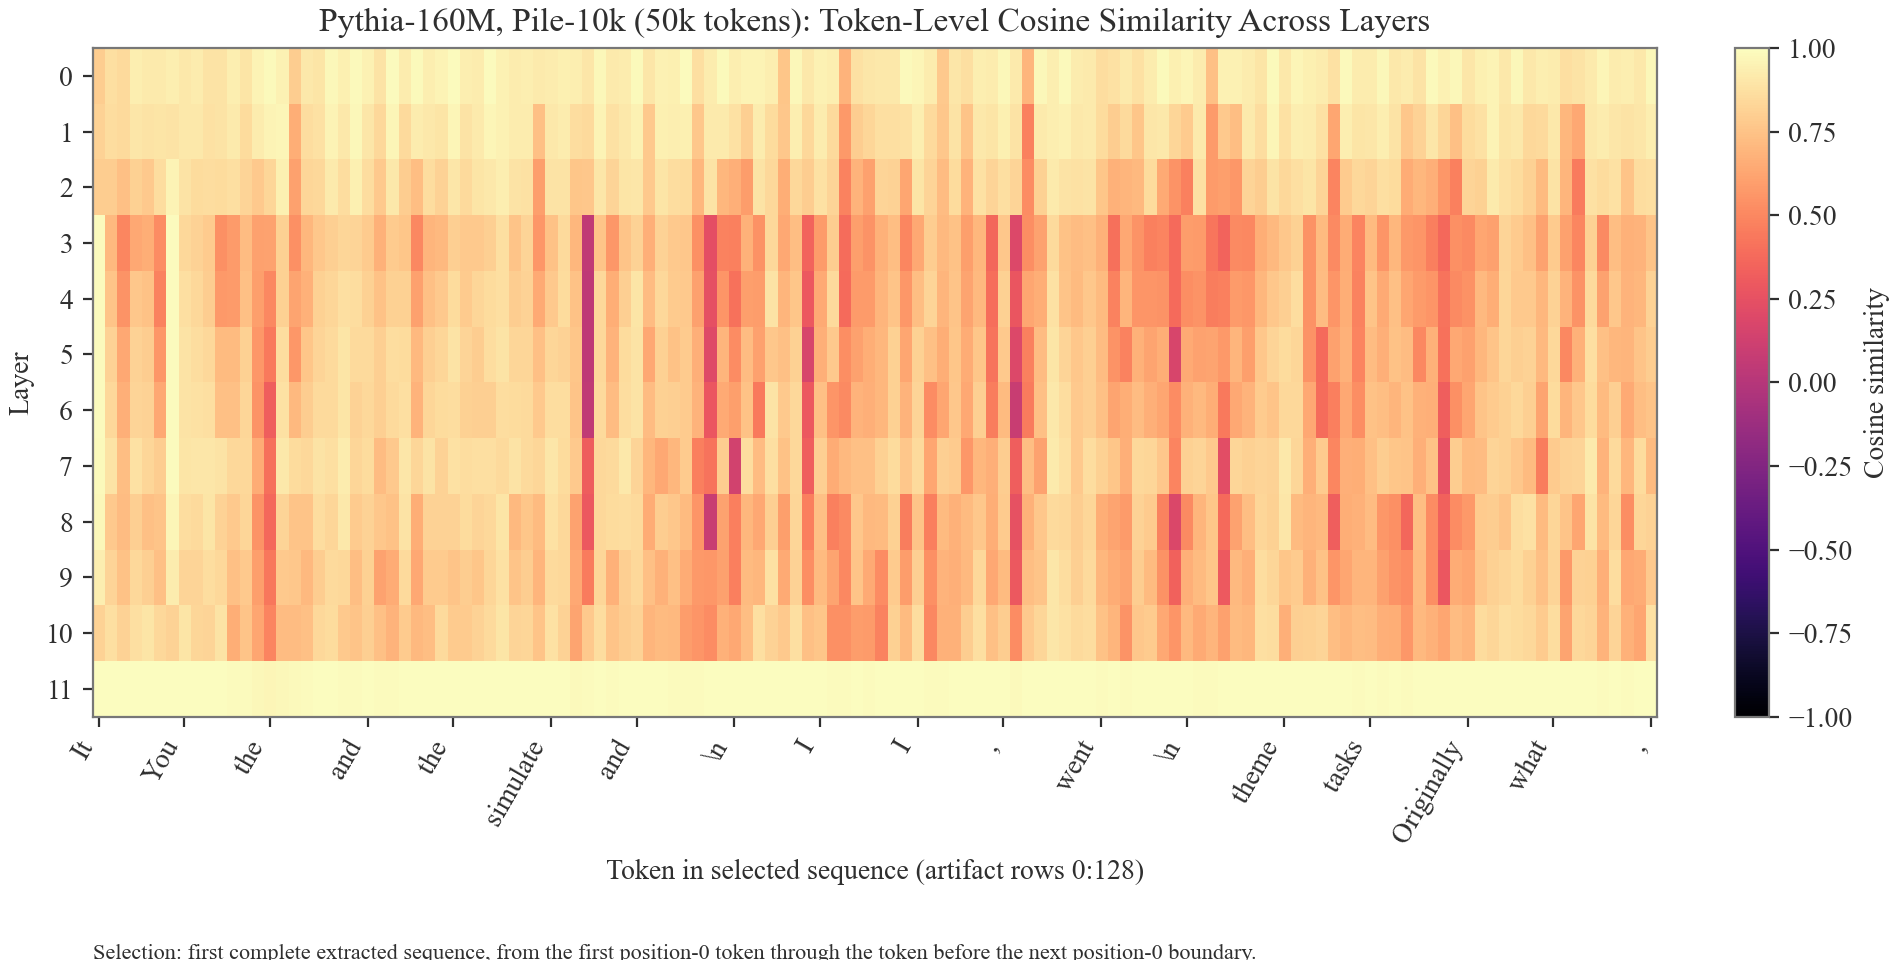
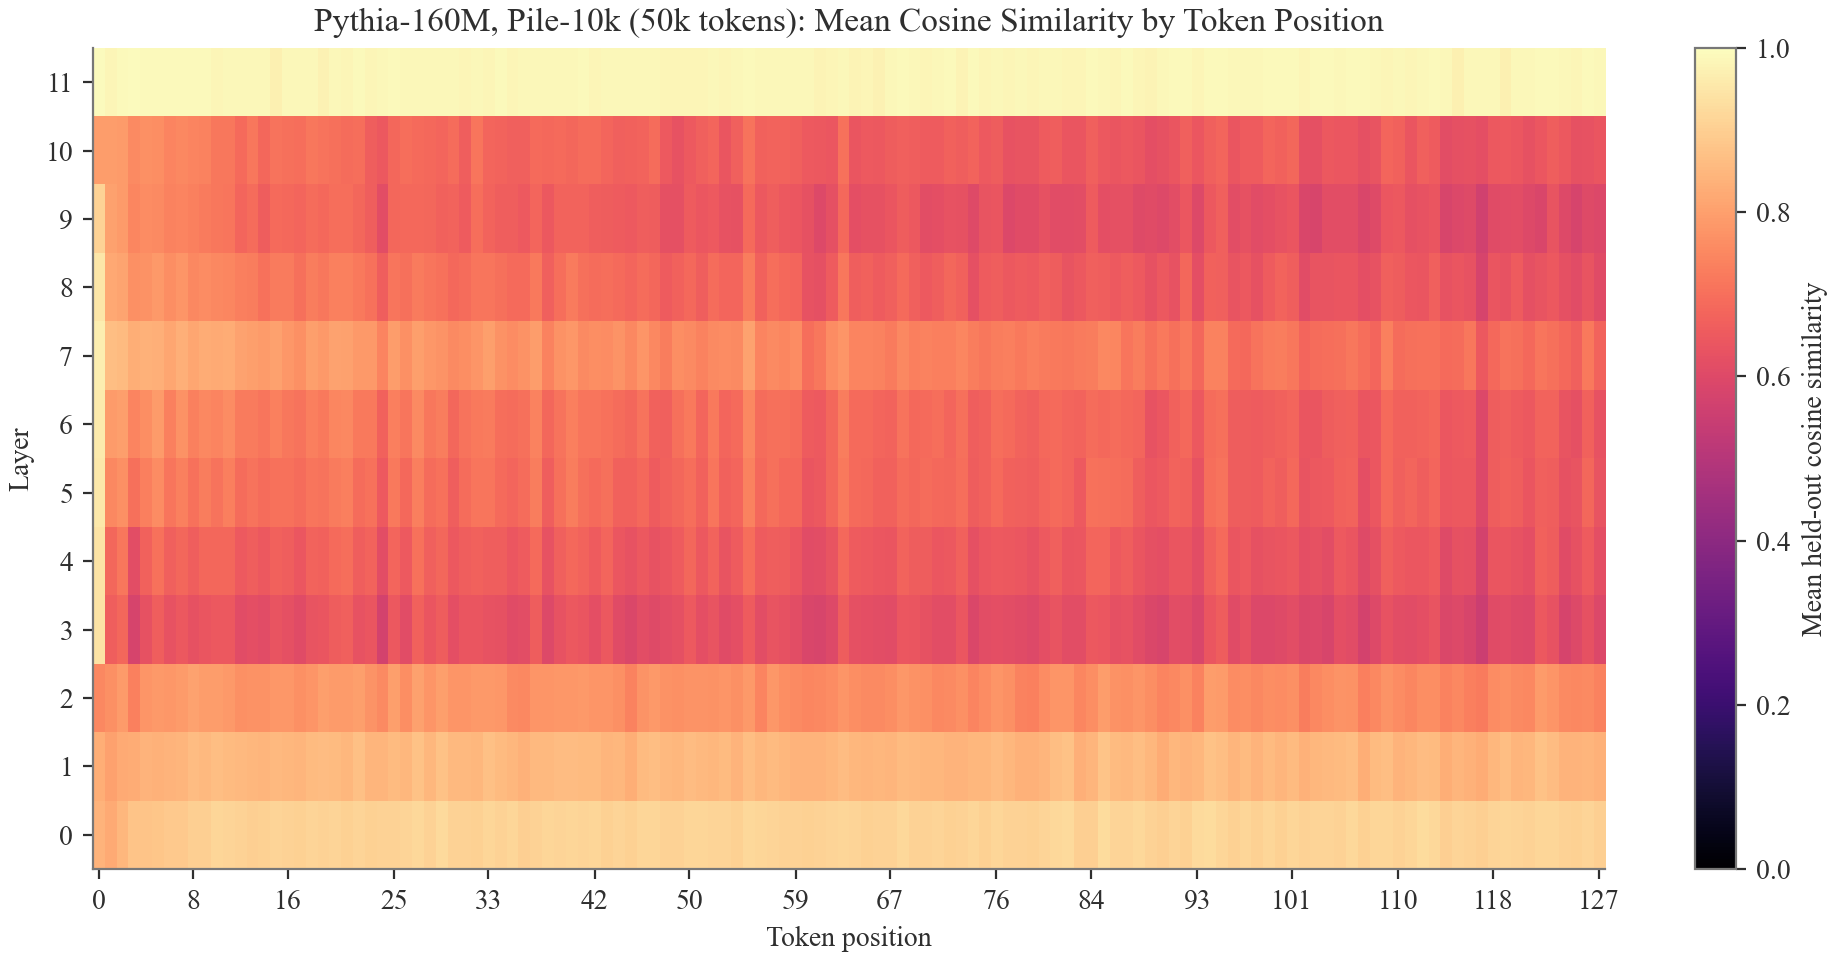
more plots

diff --git a/src/token_vs_context_llms/plotting.py b/src/token_vs_context_llms/plotting.py
@@ -120,7 +120,18 @@ def write_diagnostic_plots(
     _write_error_by_position(target / "mse_by_position.png", diagnostics, plt, title_prefix)
     _write_baseline_comparison(target / "baseline_comparison.png", diagnostics, plt, title_prefix)
     _write_norm_vs_error(target / "norm_vs_error.png", diagnostics, plt, title_prefix)
-    _write_sequence_heatmap(target / "token_layer_heatmap.png", diagnostics, plt, title_prefix)
+    _write_lens_prediction_examples(
+        target / "lens_prediction_examples.png",
+        diagnostics,
+        plt,
+        title_prefix,
+    )
+    _write_cosine_by_position_heatmap(
+        target / "token_layer_heatmap.png",
+        diagnostics,
+        plt,
+        title_prefix,
+    )
 
 
 def _require_float(row: dict[str, Any], metric_name: str) -> float:
@@ -274,44 +285,87 @@ def _write_norm_vs_error(
     plt.close(fig)
 
 
-def _write_sequence_heatmap(
+def _write_lens_prediction_examples(
     path: Path,
     diagnostics: ProbeDiagnostics,
     plt: Any,
     title_prefix: str,
 ) -> None:
-    start, stop = _first_sequence_bounds(diagnostics.positions)
-    sequence_scores = diagnostics.all_cosine[:, start:stop]
-    tokens = diagnostics.tokens[start:stop]
-    selection_note = _heatmap_selection_note(diagnostics.positions, start, stop)
+    layer_positions = _representative_layer_positions(len(diagnostics.layer_indices))
+    fig, axes = plt.subplots(
+        1,
+        len(layer_positions),
+        figsize=(4.2 * len(layer_positions), 4.1),
+        constrained_layout=True,
+        squeeze=False,
+    )
+    targets = diagnostics.lens_example_targets[layer_positions].ravel()
+    predictions = diagnostics.lens_example_predictions[layer_positions].ravel()
+    lower = float(min(np.min(targets), np.min(predictions)))
+    upper = float(max(np.max(targets), np.max(predictions)))
+    margin = (upper - lower) * 0.04 or 1.0
+    limits = (lower - margin, upper + margin)
 
-    fig, axis = plt.subplots(figsize=(9.5, 4.8), constrained_layout=True)
-    image = axis.imshow(sequence_scores, aspect="auto", cmap=CONTINUOUS_CMAP, vmin=-1.0, vmax=1.0)
-    axis.set_title(_paper_title(title_prefix, "Token-Level Cosine Similarity Across Layers"))
-    axis.set_xlabel(f"Token in selected sequence (artifact rows {start}:{stop})")
+    for axis, local_layer in zip(axes.ravel(), layer_positions, strict=True):
+        layer_targets = diagnostics.lens_example_targets[local_layer].ravel()
+        layer_predictions = diagnostics.lens_example_predictions[local_layer].ravel()
+        correlation = np.corrcoef(layer_targets, layer_predictions)[0, 1]
+        axis.scatter(
+            layer_targets,
+            layer_predictions,
+            color="cornflowerblue",
+            s=10,
+            alpha=0.35,
+            edgecolors="none",
+        )
+        axis.plot(limits, limits, color=SPINE_COLOR, linewidth=1.2, linestyle="--")
+        _finish_axis(axis, "Actual activation value", "Predicted activation value")
+        axis.set_xlim(limits)
+        axis.set_ylim(limits)
+        axis.set_aspect("equal", adjustable="box")
+        axis.set_title(
+            f"Layer {int(diagnostics.layer_indices[local_layer])} (r = {correlation:.2f})",
+            fontsize=10,
+        )
+
+    fig.suptitle(_paper_title(title_prefix, "Probe Predictions vs. Target Activations"))
+    fig.savefig(path, dpi=200)
+    plt.close(fig)
+
+
+def _write_cosine_by_position_heatmap(
+    path: Path,
+    diagnostics: ProbeDiagnostics,
+    plt: Any,
+    title_prefix: str,
+) -> None:
+    test_positions = diagnostics.positions[diagnostics.test_indices]
+    positions, mean_cosine = _mean_matrix_by_position(test_positions, diagnostics.heldout_cosine)
+
+    fig, axis = plt.subplots(figsize=(9.2, 4.8), constrained_layout=True)
+    image = axis.imshow(
+        mean_cosine,
+        aspect="auto",
+        cmap=CONTINUOUS_CMAP,
+        origin="lower",
+        vmin=0.0,
+        vmax=1.0,
+    )
+    axis.set_title(_paper_title(title_prefix, "Mean Cosine Similarity by Token Position"))
+    axis.set_xlabel("Token position")
     axis.set_ylabel("Layer")
     axis.set_yticks(np.arange(len(diagnostics.layer_indices)))
     axis.set_yticklabels([str(int(layer)) for layer in diagnostics.layer_indices])
 
-    tick_indices = _token_tick_indices(len(tokens), max_ticks=18)
+    tick_indices = _token_tick_indices(len(positions), max_ticks=16)
     axis.set_xticks(tick_indices)
-    axis.set_xticklabels(
-        [_short_token(tokens[index]) for index in tick_indices],
-        rotation=60,
-        ha="right",
-    )
-    axis.text(
-        0.0,
-        -0.34,
-        selection_note,
-        transform=axis.transAxes,
-        ha="left",
-        va="top",
-        fontsize=8,
-        color=TEXT_COLOR,
-        wrap=True,
-    )
-    fig.colorbar(image, ax=axis, label="Cosine similarity")
+    axis.set_xticklabels([str(int(positions[index])) for index in tick_indices])
+    axis.set_axisbelow(True)
+    axis.spines["top"].set_visible(False)
+    axis.spines["right"].set_visible(False)
+    axis.spines["left"].set_color(SPINE_COLOR)
+    axis.spines["bottom"].set_color(SPINE_COLOR)
+    fig.colorbar(image, ax=axis, label="Mean held-out cosine similarity")
     fig.savefig(path, dpi=200)
     plt.close(fig)
 
@@ -342,42 +396,16 @@ def _layer_colors(num_layers: int) -> list[str]:
     return [LAYER_PALETTE[index % len(LAYER_PALETTE)] for index in range(num_layers)]
 
 
-def _first_sequence_bounds(positions: np.ndarray) -> tuple[int, int]:
-    starts = np.flatnonzero(positions == 0)
-    if starts.size == 0:
-        return 0, min(len(positions), 32)
-    start = int(starts[0])
-    later_starts = starts[starts > start]
-    stop = int(later_starts[0]) if later_starts.size else min(len(positions), start + 32)
-    return start, max(start + 1, stop)
-
-
-def _heatmap_selection_note(positions: np.ndarray, start: int, stop: int) -> str:
-    starts = np.flatnonzero(positions == 0)
-    if starts.size == 0:
-        return "Selection: first available artifact rows; no position reset was found."
-    if np.any(starts > start):
-        return (
-            "Selection: first complete extracted sequence, from the first position-0 "
-            "token through the token before the next position-0 boundary."
-        )
-    return (
-        "Selection: first extracted sequence from the first position-0 token; no later "
-        f"boundary was found, so the view is capped at {stop - start} tokens."
-    )
+def _representative_layer_positions(num_layers: int) -> list[int]:
+    if num_layers <= 3:
+        return list(range(num_layers))
+    return sorted({0, num_layers // 2, num_layers - 1})
 
 
 def _token_tick_indices(num_tokens: int, max_ticks: int) -> np.ndarray:
     if num_tokens <= max_ticks:
         return np.arange(num_tokens)
     return np.unique(np.linspace(0, num_tokens - 1, max_ticks, dtype=int))
-
-
-def _short_token(token: str, max_length: int = 12) -> str:
-    cleaned = token.replace("Ġ", " ").replace("Ċ", "\\n")
-    if len(cleaned) <= max_length:
-        return cleaned
-    return cleaned[: max_length - 1] + "…"
 
 
 def _paper_title(prefix: str, topic: str | None = None) -> str:

diff --git a/src/token_vs_context_llms/diagnostics.py b/src/token_vs_context_llms/diagnostics.py
@@ -24,6 +24,10 @@ class ProbeDiagnostics:
     heldout_baseline_mse: np.ndarray
     all_cosine: np.ndarray
     all_mse: np.ndarray
+    lens_example_token_offsets: np.ndarray
+    lens_example_dimensions: np.ndarray
+    lens_example_targets: np.ndarray
+    lens_example_predictions: np.ndarray
     summary: list[dict[str, float | int]]
 
 
@@ -41,7 +45,7 @@ def compute_probe_diagnostics(
     if hidden_states.ndim != 3:
         raise ValueError("hidden_states must have shape [num_tokens, num_layers, hidden_size].")
 
-    num_tokens, num_layers, _ = hidden_states.shape
+    num_tokens, num_layers, hidden_size = hidden_states.shape
     if token_embeddings.shape[0] != num_tokens:
         raise ValueError("token_embeddings and hidden_states must have the same token count.")
 
@@ -58,6 +62,14 @@ def compute_probe_diagnostics(
     all_cosine = np.zeros((num_layers, num_tokens), dtype=np.float64)
     all_mse = np.zeros_like(all_cosine)
     summary: list[dict[str, float | int]] = []
+    rng = np.random.default_rng(random_seed)
+    example_token_offsets = _sample_indices(test_indices.size, max_size=128, rng=rng)
+    example_dimensions = _sample_indices(hidden_size, max_size=32, rng=rng)
+    lens_example_targets = np.zeros(
+        (num_layers, example_token_offsets.size, example_dimensions.size),
+        dtype=np.float64,
+    )
+    lens_example_predictions = np.zeros_like(lens_example_targets)
 
     x_train = token_embeddings[train_indices]
     x_test = token_embeddings[test_indices]
@@ -80,6 +92,12 @@ def compute_probe_diagnostics(
         heldout_baseline_mse[local_layer] = row_mean_squared_error(y_test, baseline_test)
         all_cosine[local_layer] = row_cosine_similarity(targets, pred_all)
         all_mse[local_layer] = row_mean_squared_error(targets, pred_all)
+        lens_example_targets[local_layer] = y_test[
+            np.ix_(example_token_offsets, example_dimensions)
+        ]
+        lens_example_predictions[local_layer] = pred_test[
+            np.ix_(example_token_offsets, example_dimensions)
+        ]
 
         mean_probe_mse = float(np.mean(heldout_mse[local_layer]))
         mean_baseline_mse = float(np.mean(heldout_baseline_mse[local_layer]))
@@ -110,6 +128,10 @@ def compute_probe_diagnostics(
         heldout_baseline_mse=heldout_baseline_mse,
         all_cosine=all_cosine,
         all_mse=all_mse,
+        lens_example_token_offsets=example_token_offsets,
+        lens_example_dimensions=example_dimensions,
+        lens_example_targets=lens_example_targets,
+        lens_example_predictions=lens_example_predictions,
         summary=summary,
     )
 
@@ -130,6 +152,13 @@ def row_cosine_similarity(y_true: np.ndarray, y_pred: np.ndarray) -> np.ndarray:
     return numerator / np.clip(denominator, a_min=1e-12, a_max=None)
 
 
+def _sample_indices(size: int, max_size: int, rng: np.random.Generator) -> np.ndarray:
+    sample_size = min(size, max_size)
+    if sample_size == size:
+        return np.arange(size)
+    return np.sort(rng.choice(size, size=sample_size, replace=False))
+
+
 def save_probe_diagnostics(output_dir: str | Path, diagnostics: ProbeDiagnostics) -> None:
     """Save diagnostic arrays and a compact summary table."""
 
@@ -148,10 +177,13 @@ def save_probe_diagnostics(output_dir: str | Path, diagnostics: ProbeDiagnostics
         heldout_baseline_mse=diagnostics.heldout_baseline_mse,
         all_cosine=diagnostics.all_cosine,
         all_mse=diagnostics.all_mse,
+        lens_example_token_offsets=diagnostics.lens_example_token_offsets,
+        lens_example_dimensions=diagnostics.lens_example_dimensions,
+        lens_example_targets=diagnostics.lens_example_targets,
+        lens_example_predictions=diagnostics.lens_example_predictions,
     )
     _write_summary_table(target / "diagnostic_summary.md", diagnostics.summary)
     _write_worst_token_table(target / "worst_tokens.md", diagnostics)
-    _write_heatmap_token_table(target / "heatmap_tokens.md", diagnostics)
 
 
 def _write_summary_table(path: Path, rows: list[dict[str, float | int]]) -> None:
@@ -211,68 +243,6 @@ def _write_worst_token_table(
                 + " |"
             )
     path.write_text("\n".join(lines) + "\n", encoding="utf-8")
-
-
-def _write_heatmap_token_table(path: Path, diagnostics: ProbeDiagnostics) -> None:
-    start, stop = _first_sequence_bounds(diagnostics.positions)
-    selected_positions = diagnostics.positions[start:stop]
-    selected_tokens = diagnostics.tokens[start:stop]
-    reason = _heatmap_selection_reason(diagnostics.positions, start, stop)
-    lines = [
-        "# Heatmap Token Selection",
-        "",
-        reason,
-        "",
-        f"Artifact row range: `{start}:{stop}`",
-        "",
-        "| Heatmap column | Artifact row | Token position | Token |",
-        "|---:|---:|---:|---|",
-    ]
-    selected_rows = zip(selected_positions, selected_tokens, strict=True)
-    for column, (position, token) in enumerate(selected_rows):
-        lines.append(
-            "| "
-            + " | ".join(
-                [
-                    str(column),
-                    str(start + column),
-                    str(int(position)),
-                    _escape_markdown(str(token)),
-                ]
-            )
-            + " |"
-        )
-    path.write_text("\n".join(lines) + "\n", encoding="utf-8")
-
-
-def _first_sequence_bounds(positions: np.ndarray) -> tuple[int, int]:
-    starts = np.flatnonzero(positions == 0)
-    if starts.size == 0:
-        return 0, min(len(positions), 32)
-    start = int(starts[0])
-    later_starts = starts[starts > start]
-    stop = int(later_starts[0]) if later_starts.size else min(len(positions), start + 32)
-    return start, max(start + 1, stop)
-
-
-def _heatmap_selection_reason(positions: np.ndarray, start: int, stop: int) -> str:
-    starts = np.flatnonzero(positions == 0)
-    if starts.size == 0:
-        return (
-            "The heatmap uses the first available artifact rows because no token "
-            "position reset was found to mark a sequence boundary."
-        )
-    if np.any(starts > start):
-        return (
-            "The heatmap uses the first complete extracted sequence: it starts at "
-            "the first token with position 0 and stops before the next position-0 "
-            "token, which marks the next sequence."
-        )
-    return (
-        "The heatmap uses the first extracted sequence, starting at the first token "
-        "with position 0. No later sequence boundary was found, so it is capped at "
-        f"{stop - start} tokens."
-    )
 
 
 def _format_float(value: float | int) -> str:

diff --git a/README.md b/README.md
@@ -103,10 +103,10 @@ or experiment logs. The plot step writes a PNG figure with MSE, `R^2`, and mean
 cosine similarity by layer.
 The diagnose step writes optional exploratory figures and tables, including
 per-token cosine distributions, error by token position, probe-vs-baseline MSE,
-activation norm versus error, a token-layer heatmap, a heatmap-token selection
-table, and a worst-token table. The heatmap uses the first complete extracted
-sequence so its columns are a coherent contiguous context window; the companion
-`heatmap_tokens.md` file records the exact artifact rows and tokens shown.
+activation norm versus error, sampled probe predictions versus target activation
+values, a layer-by-position cosine heatmap, and a worst-token table. The
+heatmaps aggregate held-out tokens by token position, so they summarize the test
+split rather than one selected sequence.
 
 By default, `probe` fits the simple affine baseline with no ridge penalty. Use `--alpha`
 or `probe.ridge_alpha` only for later regularized ablations.